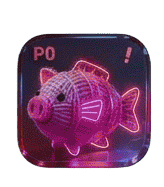
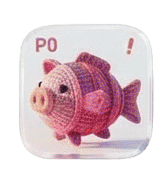
feat: 添加风险等级图标组件并在仪表盘和风险警报页面中使用

diff --git a/src/app/components/RiskAlertPage.tsx b/src/app/components/RiskAlertPage.tsx
@@ -3,6 +3,7 @@
 import { AlertTriangle, ShieldAlert, Zap, Clock, CheckCircle, XCircle } from 'lucide-react';
 import { GlassCard } from '@/app/components/ui/glass-card';
 import { NeonTitle } from '@/app/components/ui/neon-title';
+import { RiskLevelIcon } from '@/app/components/ui/RiskLevelIcon';
 
 const alerts = [
   { 
@@ -85,20 +86,20 @@ export default function RiskAlertPage() {
         <div className="flex flex-1">
             {/* Sidebar Stats */}
             <div className="w-64 border-r border-slate-200 dark:border-white/10 p-6 space-y-6">
-                 <div className="p-5 rounded-2xl bg-rose-500/10 border border-rose-500/30 relative overflow-hidden group">
-                    <div className="absolute top-0 right-0 p-2 opacity-20 group-hover:opacity-40 transition-opacity">
-                        <Zap size={40} className="text-rose-500" />
+                 <div className="p-5 rounded-2xl bg-rose-500/10 border border-rose-500/30 relative overflow-hidden group flex items-center justify-between">
+                    <div>
+                        <div className="text-4xl font-bold text-rose-500 mb-1 drop-shadow-[0_0_10px_rgba(244,63,94,0.5)] font-mono">1</div>
+                        <div className="text-xs text-rose-600 dark:text-rose-300 uppercase tracking-wider font-medium">P0 严重预警</div>
                     </div>
-                    <div className="text-4xl font-bold text-rose-500 mb-1 drop-shadow-[0_0_10px_rgba(244,63,94,0.5)] font-mono">1</div>
-                    <div className="text-xs text-rose-600 dark:text-rose-300 uppercase tracking-wider font-medium">P0 严重预警</div>
+                    <RiskLevelIcon level="P0" width={80} height={80} className="drop-shadow-[0_0_15px_rgba(244,63,94,0.3)]" />
                 </div>
 
-                <div className="p-5 rounded-2xl bg-orange-500/10 border border-orange-500/30 relative overflow-hidden group">
-                    <div className="absolute top-0 right-0 p-2 opacity-20 group-hover:opacity-40 transition-opacity">
-                        <AlertTriangle size={40} className="text-orange-500" />
+                <div className="p-5 rounded-2xl bg-orange-500/10 border border-orange-500/30 relative overflow-hidden group flex items-center justify-between">
+                    <div>
+                        <div className="text-4xl font-bold text-orange-500 mb-1 drop-shadow-[0_0_10px_rgba(249,115,22,0.5)] font-mono">6</div>
+                        <div className="text-xs text-orange-600 dark:text-orange-300 uppercase tracking-wider font-medium">P1 重要预警</div>
                     </div>
-                    <div className="text-4xl font-bold text-orange-500 mb-1 drop-shadow-[0_0_10px_rgba(249,115,22,0.5)] font-mono">6</div>
-                    <div className="text-xs text-orange-600 dark:text-orange-300 uppercase tracking-wider font-medium">P1 重要预警</div>
+                    <RiskLevelIcon level="P1" width={80} height={80} className="drop-shadow-[0_0_15px_rgba(249,115,22,0.3)]" />
                 </div>
 
                 <div className="mt-8">
@@ -115,21 +116,15 @@ export default function RiskAlertPage() {
             <div className="flex-1 p-6 overflow-y-auto">
               <div className="space-y-3">
                 {alerts.map((alert) => (
-                  <div key={alert.id} className="flex items-center gap-4 p-4 bg-white dark:bg-slate-900/30 border border-slate-200 dark:border-white/5 hover:border-cyan-500/30 rounded-xl hover:bg-slate-50 dark:hover:bg-slate-900/50 transition-all group relative overflow-hidden shadow-sm dark:shadow-none">
-                    {/* Status Indicator Bar */}
-                    <div className={`absolute left-0 top-0 bottom-0 w-1 ${
-                        alert.color === 'red' ? 'bg-rose-500 shadow-[0_0_10px_#f43f5e]' : 'bg-orange-500 shadow-[0_0_10px_#f97316]'
-                    }`} />
+                  <div key={alert.id} className="flex items-center gap-4 p-4 bg-white dark:bg-slate-900/40 border border-slate-200 dark:border-white/5 hover:border-cyan-500/50 rounded-xl hover:bg-slate-50 dark:hover:bg-slate-900/60 transition-all group relative overflow-hidden shadow-sm dark:shadow-none backdrop-blur-sm hover:shadow-[0_0_15px_rgba(6,182,212,0.15)]">
+                    {/* Subtle Gradient Hover Effect */}
+                    <div className="absolute inset-0 bg-gradient-to-r from-cyan-500/0 via-cyan-500/5 to-cyan-500/0 opacity-0 group-hover:opacity-100 transition-opacity duration-500 pointer-events-none" />
 
-                    <div className="pl-2 flex-1 grid grid-cols-12 gap-4 items-center relative z-10">
+                    <div className="flex-1 grid grid-cols-12 gap-4 items-center relative z-10">
                       <div className="col-span-5">
-                        <div className="flex items-center gap-3 mb-1">
-                             <span className={`text-[10px] font-bold px-1.5 py-0.5 rounded font-mono ${
-                                 alert.color === 'red' ? 'bg-rose-500 text-white' : 'bg-orange-500 text-white'
-                             }`}>
-                                 {alert.level}
-                             </span>
-                             <span className="font-medium text-slate-700 dark:text-slate-200 group-hover:text-cyan-600 dark:group-hover:text-cyan-400 transition-colors">{alert.title}</span>
+                        <div className="flex items-center gap-5 mb-1">
+                             <RiskLevelIcon level={alert.level} width={72} height={72} className="drop-shadow-md" />
+                             <span className="text-lg font-medium text-slate-800 dark:text-white group-hover:text-cyan-600 dark:group-hover:text-cyan-400 transition-colors tracking-tight">{alert.title}</span>
                         </div>
                         <div className="text-[10px] text-slate-500 font-mono flex items-center gap-3">
                           <span className="flex items-center gap-1"><Clock size={10}/> {alert.time}</span>

diff --git a/src/app/components/ui/RiskLevelIcon.tsx b/src/app/components/ui/RiskLevelIcon.tsx
@@ -1,0 +1,91 @@
+'use client';
+
+import Image from 'next/image';
+import p0 from '@/assets/p0.png';
+import p0_n from '@/assets/p0_n.png';
+import p1 from '@/assets/p1.png';
+import p1_n from '@/assets/p1_n.png';
+import p2 from '@/assets/p2.png';
+import p2_n from '@/assets/p2_n.png';
+import p3 from '@/assets/p3.png';
+import p3_n from '@/assets/p3_n.png';
+import p4 from '@/assets/p4.png';
+import p4_n from '@/assets/p4_n.png';
+import p5 from '@/assets/p5.png';
+import p5_n from '@/assets/p5_n.png';
+import p6 from '@/assets/p6.png';
+import p6_n from '@/assets/p6_n.png';
+import p7 from '@/assets/p7.png';
+import p7_n from '@/assets/p7_n.png';
+import p8 from '@/assets/p8.png';
+import p8_n from '@/assets/p8_n.png';
+import p9 from '@/assets/p9.png';
+import p9_n from '@/assets/p9_n.png';
+import p10 from '@/assets/p10.png';
+import p10_n from '@/assets/p10_n.png';
+import p11 from '@/assets/p11.png';
+import p11_n from '@/assets/p11_n.png';
+import p12 from '@/assets/p12.png';
+import p12_n from '@/assets/p12_n.png';
+import p13 from '@/assets/p13.png';
+import p13_n from '@/assets/p13_n.png';
+import p14 from '@/assets/p14.png';
+import p14_n from '@/assets/p14_n.png';
+import p15 from '@/assets/p15.png';
+import p15_n from '@/assets/p15_n.png';
+
+const icons: Record<string, { light: any; dark: any }> = {
+  '0': { light: p0, dark: p0_n },
+  '1': { light: p1, dark: p1_n },
+  '2': { light: p2, dark: p2_n },
+  '3': { light: p3, dark: p3_n },
+  '4': { light: p4, dark: p4_n },
+  '5': { light: p5, dark: p5_n },
+  '6': { light: p6, dark: p6_n },
+  '7': { light: p7, dark: p7_n },
+  '8': { light: p8, dark: p8_n },
+  '9': { light: p9, dark: p9_n },
+  '10': { light: p10, dark: p10_n },
+  '11': { light: p11, dark: p11_n },
+  '12': { light: p12, dark: p12_n },
+  '13': { light: p13, dark: p13_n },
+  '14': { light: p14, dark: p14_n },
+  '15': { light: p15, dark: p15_n },
+};
+
+interface RiskLevelIconProps {
+  level: string; // e.g. "P0", "0", "P15"
+  className?: string;
+  width?: number;
+  height?: number;
+}
+
+export function RiskLevelIcon({ level, className = "", width = 24, height = 24 }: RiskLevelIconProps) {
+  // Extract number from string (e.g. "P0" -> "0")
+  const levelNum = level.replace(/[^0-9]/g, '');
+  const iconSet = icons[levelNum];
+
+  if (!iconSet) {
+    // Fallback if level not found
+    return <span className={`font-mono font-bold ${className}`}>{level}</span>;
+  }
+
+  return (
+    <div className={`relative inline-block ${className}`} style={{ width, height }}>
+      <Image
+        src={iconSet.light}
+        alt={`Risk Level ${level}`}
+        width={width}
+        height={height}
+        className="block dark:hidden object-contain"
+      />
+      <Image
+        src={iconSet.dark}
+        alt={`Risk Level ${level}`}
+        width={width}
+        height={height}
+        className="hidden dark:block object-contain"
+      />
+    </div>
+  );
+}

diff --git a/src/app/components/DashboardPage.tsx b/src/app/components/DashboardPage.tsx
@@ -10,6 +10,7 @@ import {
   AlertTriangle, CheckCircle2, RefreshCw, Bell, 
   Calendar, ChevronDown, Activity, ShieldAlert
 } from 'lucide-react';
+import { RiskLevelIcon } from '@/app/components/ui/RiskLevelIcon';
 
 // --- Mock Data based on Requirements ---
 
@@ -302,14 +303,7 @@ export default function DouyinDataHubDashboard() {
                   className="flex items-center justify-between p-3 rounded-lg bg-slate-50 dark:bg-white/[0.02] border border-slate-200 dark:border-white/[0.05] hover:bg-slate-100 dark:hover:bg-white/[0.05] transition-colors group cursor-pointer"
                 >
                   <div className="flex items-center gap-3">
-                    <div className={`
-                      flex items-center justify-center w-8 h-8 rounded font-mono text-xs font-bold
-                      ${alert.level === 'P0' ? 'bg-rose-500/20 text-rose-600 dark:text-rose-400 border border-rose-500/50 shadow-[0_0_10px_rgba(244,63,94,0.2)]' : 
-                        alert.level === 'P1' ? 'bg-orange-500/20 text-orange-600 dark:text-orange-400 border border-orange-500/50' : 
-                        'bg-yellow-500/20 text-yellow-600 dark:text-yellow-400 border border-yellow-500/50'}
-                    `}>
-                      {alert.level}
-                    </div>
+                    <RiskLevelIcon level={alert.level} width={32} height={32} />
                     <div>
                       <div className="text-sm text-slate-700 dark:text-slate-200 group-hover:text-slate-900 dark:group-hover:text-white transition-colors">
                         {alert.title}
